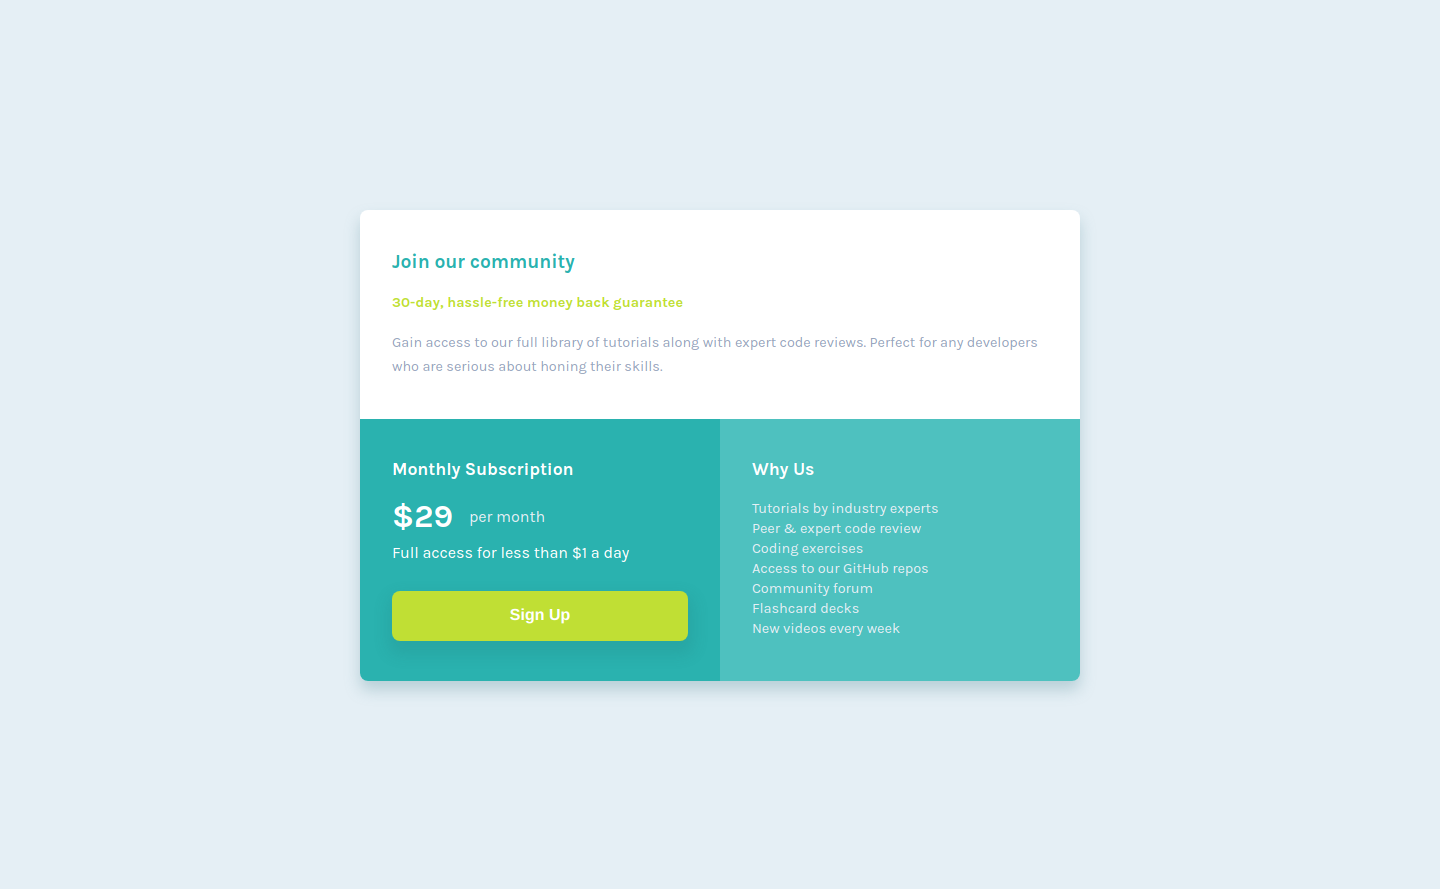
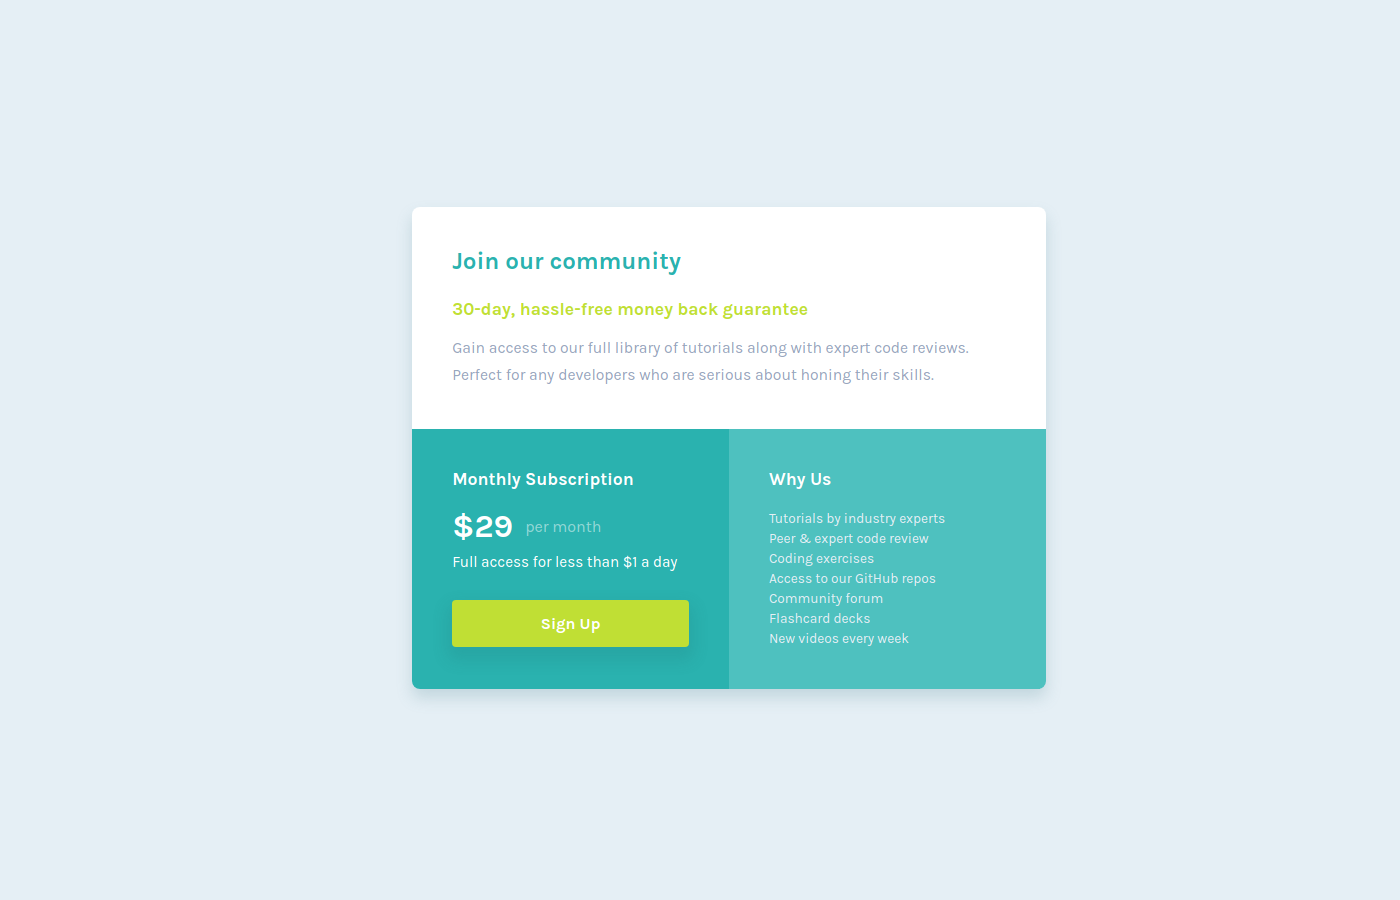
Edit style.css for additional breakpoints

Changed region(s): [[0.2457, 0.2126, 0.7679, 0.7897]]

diff --git a/style.css b/style.css
@@ -19,12 +19,16 @@ html {
     padding: 0;
 }
 
+html, body {
+    height: 100%;
+}
+
 body {
     background-color: var(--light-gray);
     font-family: 'Karla', sans-serif;
     font-weight: 400;
     font-size: 1rem;
-    height: 100vh;
+    padding: 2rem 0;
     display: grid;
     place-items: center;
 }
@@ -34,9 +38,9 @@ body {
     border-radius: .5rem;
     overflow: hidden;
     width: 85%;
-    box-shadow: 0 9px 15px 0 rgba(105, 154, 165, 0.363);
+    box-shadow: 0 9px 15px 0 rgba(105, 154, 165, 0.275);
     display: grid;
-    place-items: center;
+    margin: auto 0; 
     grid-template-areas: 
     "item1"
     "item2"
@@ -59,16 +63,15 @@ body {
 
 .yellow-text {
     color: var(--bright-yellow);
-    font-size: .9rem;
+    font-size: 1rem;
     font-weight: 700;
-    padding: 1.2rem 0;
-    line-height: 1.2rem;
+    padding: 1.5rem 0 1rem 0;
 }
 
 .gray-text {
     color: var(--gray-blue);
-    font-size: .9rem;
-    line-height: 1.5rem;
+    font-size: .85rem;
+    line-height: 1.7rem;
 }
 
 .grid-item2 {
@@ -89,8 +92,9 @@ body {
 .light-text {
     display: flex;
     align-items: center;
-    gap: 1rem;
-    color: var(--light-gray);
+    gap: .75rem;
+    color: hsl(0deg 0% 100% / 50%);
+    font-size: 1rem;
     padding: .5rem 0;
 }
 
@@ -102,17 +106,19 @@ body {
 
 .white-text {
     color: #fff;
+    font-size: .95rem;
 }
 
 button {
     background-color: var(--bright-yellow);
     color: #fff;
+    font-family: 'Karla', sans-serif;
     font-size: 1rem;
     font-weight: 700;
     border: none;
-    border-radius: .5rem;
+    border-radius: .25rem;
     width: 100%;
-    padding: 1rem 1rem;
+    padding: .9rem 1rem;
     margin-top: 1.8rem;
     box-shadow: 0 9px 15px 5px rgba(30, 112, 109, 0.164);
 }
@@ -135,19 +141,31 @@ button:hover {
 
 .small-light-text p {
     color: var(--light-gray);
-    font-size: .9rem;
+    font-size: .85rem;
     line-height: 1.3rem;
 }
 
-@media only screen and (min-width: 500px) {
+@media only screen and (min-width: 481px) {
     .grid-container {
-        width: 60%;
+        width: 55%;
+    }
+
+    .title1 {
+        font-size: 1.5rem;
+    }
+    
+    .yellow-text {
+        font-size: 1.1rem;
+    }
+    
+    .gray-text {
+        font-size: .98rem;
     }
 }
 
-@media only screen and (min-width: 1024px) {
+@media only screen and (min-width: 769px) {
     .grid-container {
-        width: 50%;
+        width: 60%;
         grid-template-columns: 50%;
         grid-template-areas: 
         "item1 item1"
@@ -155,6 +173,25 @@ button:hover {
     }
     
     .grid-item1, .grid-item2, .grid-item3 {
-        padding: 2.5rem 2rem;
+        padding: 2.5rem 2.5rem;
+    }
+}
+
+@media only screen and (min-width: 1025px) {
+    .grid-container {
+        width: 55%;
+    }
+}
+
+@media only screen and (min-width: 1201px) {
+    .grid-container {
+        width: 33%;
+    }
+}
+
+@media only screen and (min-width: 1925px) {
+    .grid-container {
+        width: 25%;
+        max-width: 55rem;
     }
 }
